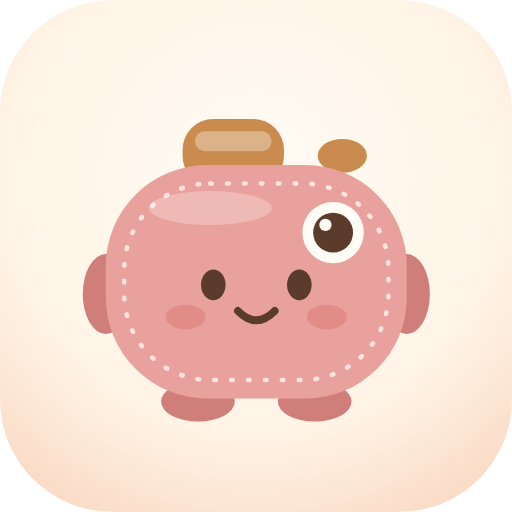
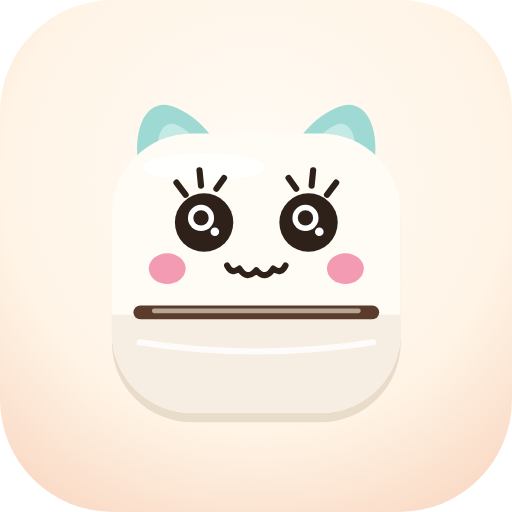
Cat printer mascot, cafe name and handle in settings
Claude-Session: https://claude.ai/code/session_019e3KwpeE8j9ss5236kS2wN

Changed region(s): [[0.1562, 0.1875, 0.8438, 0.8438]]

diff --git a/index.html b/index.html
@@ -208,11 +208,15 @@ h2{font-size:clamp(30px,5vw,52px);line-height:1.08}
 .pdot.bad{background:var(--bad);opacity:.85}
 .staff{position:fixed;inset:0;z-index:30;display:grid;place-items:center;background:rgba(90,59,44,.35);
   padding-left:max(16px,env(safe-area-inset-left,0px));padding-right:max(16px,env(safe-area-inset-right,0px))}
-.staff-card{width:min(440px,100%);background:var(--paper);color:var(--cocoa);border-radius:32px;padding:24px;
+.staff-card{width:min(440px,100%);max-height:92vh;max-height:92dvh;overflow-y:auto;background:var(--paper);color:var(--cocoa);border-radius:32px;padding:24px;
   display:flex;flex-direction:column;gap:14px;text-align:left;box-shadow:0 24px 50px rgba(90,59,44,.25);-webkit-user-select:text;user-select:text}
 .staff-card h3{margin:0;font-weight:900;font-size:22px}
 .staff-card p{margin:0;font-size:15px;line-height:1.45;color:var(--cocoa-soft)}
 .staff-card #btStatus{color:var(--cocoa);font-weight:800}
+.staff-card h4{margin:6px 0 0;font-weight:900;font-size:17px}
+.staff-field{display:flex;flex-direction:column;gap:6px;font-size:16px}
+.staff-field input{font:inherit;font-weight:700;padding:10px 14px;border-radius:14px;border:2px solid var(--milk);background:var(--cream);color:var(--cocoa);width:100%}
+.staff-field input:focus{outline:3px solid var(--caramel);outline-offset:1px}
 .staff-row{display:flex;flex-wrap:wrap;align-items:center;justify-content:space-between;gap:8px 12px;font-size:16px}
 .staff-row select{min-width:0;max-width:100%}
 .staff-card select{font:inherit;font-weight:700;padding:10px 14px;border-radius:14px;border:2px solid var(--milk);background:var(--cream);color:var(--cocoa)}
@@ -232,28 +236,37 @@ h2{font-size:clamp(30px,5vw,52px);line-height:1.08}
   <!-- 1. Lure: never dims -->
   <section class="screen active" data-screen="home" aria-label="Главный экран">
     <div class="plush-stage">
-      <div class="plush-wrap" id="plush" role="img" aria-label="Плюшевый фотоаппарат">
-        <svg class="breathe" viewBox="0 0 240 230" aria-hidden="true">
-          <ellipse cx="22" cy="140" rx="15" ry="26" fill="#CF7E7A"/>
-          <ellipse cx="218" cy="140" rx="15" ry="26" fill="#CF7E7A"/>
-          <ellipse cx="82" cy="210" rx="24" ry="13" fill="#CF7E7A"/>
-          <ellipse cx="158" cy="210" rx="24" ry="13" fill="#CF7E7A"/>
-          <rect x="72" y="26" width="66" height="44" rx="20" fill="#C98B4E"/>
-          <rect x="80" y="34" width="50" height="13" rx="6.5" fill="#FFFBF5" opacity=".35"/>
-          <ellipse cx="176" cy="50" rx="16" ry="11" fill="#C98B4E"/>
-          <rect x="22" y="56" width="196" height="152" rx="66" fill="#E9A19D"/>
-          <rect x="34" y="68" width="172" height="128" rx="56" fill="none" stroke="#FFFBF5" stroke-opacity=".75" stroke-width="3" stroke-dasharray="1 10" stroke-linecap="round"/>
-          <ellipse cx="90" cy="84" rx="40" ry="11" fill="#FFFBF5" opacity=".28"/>
-          <circle cx="170" cy="100" r="20" fill="#FFFBF5"/>
-          <circle cx="170" cy="100" r="13" fill="#5A3B2C"/>
-          <circle cx="165" cy="95" r="4" fill="#FFFBF5"/>
+      <div class="plush-wrap" id="plush" role="img" aria-label="Котик-принтер">
+        <svg class="breathe" viewBox="0 0 240 240" aria-hidden="true">
+          <!-- ears -->
+          <path d="M44 66 C38 34 50 18 64 22 C78 26 92 40 98 54 Z" fill="#9ED9D3"/>
+          <path d="M196 66 C202 34 190 18 176 22 C162 26 148 40 142 54 Z" fill="#9ED9D3"/>
+          <path d="M56 56 C54 40 60 32 67 34 C75 37 82 44 85 52 Z" fill="#C4EAE5"/>
+          <path d="M184 56 C186 40 180 32 173 34 C165 37 158 44 155 52 Z" fill="#C4EAE5"/>
+          <!-- body -->
+          <rect x="26" y="44" width="188" height="184" rx="52" fill="#EADCCB"/>
+          <rect x="26" y="40" width="188" height="182" rx="52" fill="#FFFBF5"/>
+          <ellipse cx="86" cy="62" rx="40" ry="9" fill="#FFFFFF" opacity=".9"/>
+          <!-- paper exit lid -->
+          <path d="M26 158 H214 V170 C214 199 191 222 162 222 H78 C49 222 26 199 26 170 Z" fill="#F7EEE3"/>
+          <rect x="40" y="152" width="160" height="9" rx="4.5" fill="#5A3B2C"/>
+          <rect x="52" y="154" width="136" height="3" rx="1.5" fill="#B9A595"/>
+          <path d="M44 176 Q120 188 196 176" stroke="#FFFFFF" stroke-width="4" fill="none" stroke-linecap="round" opacity=".8"/>
+          <!-- face -->
           <g class="eyes">
-            <ellipse cx="92" cy="134" rx="8" ry="10" fill="#5A3B2C"/>
-            <ellipse cx="148" cy="134" rx="8" ry="10" fill="#5A3B2C"/>
+            <g stroke="#2E211A" stroke-width="4" stroke-linecap="round">
+              <path d="M74 80 L68 72"/><path d="M84 74 L83 64"/><path d="M94 76 L99 69"/>
+              <path d="M146 76 L141 69"/><path d="M156 74 L157 64"/><path d="M166 80 L172 72"/>
+            </g>
+            <circle cx="86" cy="98" r="19" fill="#2E211A"/>
+            <circle cx="154" cy="98" r="19" fill="#2E211A"/>
+            <circle cx="84" cy="95" r="8.5" fill="#FFFFFF"/><circle cx="84" cy="95" r="5" fill="#2E211A"/>
+            <circle cx="152" cy="95" r="8.5" fill="#FFFFFF"/><circle cx="152" cy="95" r="5" fill="#2E211A"/>
+            <circle cx="93" cy="104" r="2.8" fill="#FFFFFF"/><circle cx="161" cy="104" r="2.8" fill="#FFFFFF"/>
           </g>
-          <ellipse cx="74" cy="155" rx="13" ry="8" fill="#D9736E" opacity=".45"/>
-          <ellipse cx="166" cy="155" rx="13" ry="8" fill="#D9736E" opacity=".45"/>
-          <path d="M108 151 Q120 163 132 151" stroke="#5A3B2C" stroke-width="5" fill="none" stroke-linecap="round"/>
+          <ellipse cx="62" cy="128" rx="12" ry="10" fill="#F39BB2"/>
+          <ellipse cx="178" cy="128" rx="12" ry="10" fill="#F39BB2"/>
+          <path d="M101 126 Q104 132 109 128 Q114 136 120 129 Q126 136 131 128 Q136 132 139 126" stroke="#2E211A" stroke-width="4" fill="none" stroke-linecap="round" stroke-linejoin="round"/>
         </svg>
       </div>
       <div class="ground" aria-hidden="true"></div>
@@ -323,16 +336,20 @@ h2{font-size:clamp(30px,5vw,52px);line-height:1.08}
     <div class="printer" id="printer">
       <svg id="printerSvg" viewBox="0 0 260 124" aria-hidden="true">
         <g class="pbody">
-          <rect x="14" y="8" width="232" height="104" rx="46" fill="#C98B4E"/>
-          <rect x="26" y="20" width="208" height="80" rx="36" fill="none" stroke="#FFFBF5" stroke-opacity=".65" stroke-width="3" stroke-dasharray="1 10" stroke-linecap="round"/>
-          <ellipse cx="84" cy="30" rx="36" ry="8" fill="#FFFBF5" opacity=".25"/>
+          <path d="M48 34 C43 10 53 -2 65 2 C77 6 88 16 93 28 Z" fill="#9ED9D3"/>
+          <path d="M212 34 C217 10 207 -2 195 2 C183 6 172 16 167 28 Z" fill="#9ED9D3"/>
+          <rect x="30" y="18" width="200" height="100" rx="42" fill="#EADCCB"/>
+          <rect x="30" y="14" width="200" height="98" rx="42" fill="#FFFBF5"/>
+          <ellipse cx="88" cy="28" rx="36" ry="6" fill="#FFFFFF" opacity=".9"/>
           <g class="eyes">
-            <ellipse cx="100" cy="56" rx="7" ry="9" fill="#5A3B2C"/>
-            <ellipse cx="160" cy="56" rx="7" ry="9" fill="#5A3B2C"/>
+            <circle cx="102" cy="52" r="14" fill="#2E211A"/><circle cx="158" cy="52" r="14" fill="#2E211A"/>
+            <circle cx="100" cy="50" r="6.2" fill="#FFFFFF"/><circle cx="100" cy="50" r="3.6" fill="#2E211A"/>
+            <circle cx="156" cy="50" r="6.2" fill="#FFFFFF"/><circle cx="156" cy="50" r="3.6" fill="#2E211A"/>
+            <circle cx="107" cy="57" r="2.2" fill="#FFFFFF"/><circle cx="163" cy="57" r="2.2" fill="#FFFFFF"/>
           </g>
-          <ellipse cx="80" cy="73" rx="11" ry="7" fill="#E9A19D" opacity=".85"/>
-          <ellipse cx="180" cy="73" rx="11" ry="7" fill="#E9A19D" opacity=".85"/>
-          <path class="mouth" d="M120 70 Q130 80 140 70" stroke="#5A3B2C" stroke-width="4.5" fill="none" stroke-linecap="round"/>
+          <ellipse cx="78" cy="74" rx="10" ry="8" fill="#F39BB2"/>
+          <ellipse cx="182" cy="74" rx="10" ry="8" fill="#F39BB2"/>
+          <path class="mouth" d="M114 72 Q116 76 120 74 Q124 79 130 74 Q136 79 140 74 Q144 76 146 72" stroke="#2E211A" stroke-width="3.5" fill="none" stroke-linecap="round" stroke-linejoin="round"/>
           <rect x="54" y="98" width="152" height="12" rx="6" fill="#5A3B2C"/>
         </g>
       </svg>
@@ -345,7 +362,12 @@ h2{font-size:clamp(30px,5vw,52px);line-height:1.08}
   <!-- Staff settings -->
   <div class="staff" id="staff" hidden>
     <div class="staff-card" role="dialog" aria-labelledby="staffTitle">
-      <h3 id="staffTitle">Принтер</h3>
+      <h3 id="staffTitle">Настройки</h3>
+      <h4>Заведение</h4>
+      <div class="staff-field"><label for="cafeIn">Название заведения</label><input id="cafeIn" type="text" maxlength="40" autocomplete="off"></div>
+      <div class="staff-field"><label for="handleIn">Ник в соцсетях</label><input id="handleIn" type="text" maxlength="40" autocomplete="off" placeholder="@vasha_kofeynya"></div>
+      <p>Печатаются на каждом снимке. Если ник оставить пустым, строки с ником не будет.</p>
+      <h4>Принтер</h4>
       <p id="btStatus">Принтер не подключён</p>
       <p>Включите принтер, нажмите «Подключить» и выберите его в списке. Делать это нужно после каждого перезапуска страницы, если принтер не подхватился сам.</p>
       <div class="staff-row"><label for="pwSel">Ширина ленты</label>
@@ -373,7 +395,7 @@ h2{font-size:clamp(30px,5vw,52px);line-height:1.08}
 
 <script>
 /* ===== Settings for the cafe ===== */
-const APP_VERSION = '1.4';
+const APP_VERSION = '1.5';
 const CONFIG = {
   cafeName: 'Ваша кофейня',        // printed at the top of the receipt
   handleLabel: 'Мы в сети',        // line above the handle, no platform named
@@ -771,8 +793,10 @@ async function buildReceipt(src){
   x.arcTo(PX, PY + PH, PX, PY, r); x.arcTo(PX, PY, PX + PW, PY, r); x.closePath(); x.clip();
   x.drawImage(p, PX, PY); x.restore();
   text(CONFIG.thanks, 900, 34, FY + R(50));
-  text(CONFIG.handleLabel, 700, 24, FY + R(86));
-  text(CONFIG.handle, 900, 36, FY + R(130));
+  if (CONFIG.handle){
+    text(CONFIG.handleLabel, 700, 24, FY + R(86));
+    text(CONFIG.handle, 900, 36, FY + R(130));
+  }
   x.setLineDash([R(4), R(12)]); x.beginPath(); x.moveTo(R(12), H - R(10)); x.lineTo(W - R(12), H - R(10)); x.stroke();
   // everything to pure 1-bit, like the printer will do
   const img = x.getImageData(0, 0, W, H), d = img.data;
@@ -796,6 +820,9 @@ try { Object.assign(prefs, JSON.parse(localStorage.getItem('booth-prefs') || '{}
 function savePrefs(p){ Object.assign(prefs, p); try { localStorage.setItem('booth-prefs', JSON.stringify(prefs)); } catch {} }
 function printWidth(){ return bt.kind === 'cat' ? 384 : (+prefs.width || 384); }
 
+// Cafe name and handle set on the tablet override the defaults
+if (prefs.cafeName) CONFIG.cafeName = prefs.cafeName;
+if ('handle' in prefs) CONFIG.handle = prefs.handle;
 const pdot = $('#pdot'), btStatus = $('#btStatus');
 function setPrinterState(msg){
   const ok = !!(bt.device && bt.device.gatt.connected && bt.ch);
@@ -942,6 +969,18 @@ pwSel.addEventListener('change', () => savePrefs({width:+pwSel.value}));
 protoSel.addEventListener('change', () => savePrefs({protocol:protoSel.value}));
 const chunkSel = $('#chunkSel'); chunkSel.value = String(prefs.chunk);
 chunkSel.addEventListener('change', () => savePrefs({chunk:+chunkSel.value}));
+const cafeIn = $('#cafeIn'), handleIn = $('#handleIn');
+cafeIn.value = CONFIG.cafeName; handleIn.value = CONFIG.handle;
+cafeIn.addEventListener('input', () => {
+  CONFIG.cafeName = cafeIn.value.trim() || 'Ваша кофейня';
+  savePrefs({cafeName:cafeIn.value.trim()});
+});
+handleIn.addEventListener('change', () => {
+  let h = handleIn.value.trim().replace(/\s+/g, '');
+  if (h && !h.startsWith('@')) h = '@' + h;
+  handleIn.value = h; CONFIG.handle = h;
+  savePrefs({handle:h});
+});
 const delaySel = $('#delaySel'), bandSel = $('#bandSel');
 delaySel.value = String(prefs.delay); bandSel.value = String(prefs.band);
 delaySel.addEventListener('change', () => savePrefs({delay:+delaySel.value}));

diff --git a/sw.js b/sw.js
@@ -1,6 +1,6 @@
 /* Photo booth service worker: works offline, picks up new versions when online.
    Bump CACHE on every release. */
-const CACHE = 'booth-v1.4';
+const CACHE = 'booth-v1.5';
 const CORE = ['./', './index.html', './manifest.webmanifest', './icon-192.png', './icon-512.png'];
 
 self.addEventListener('install', e => {
